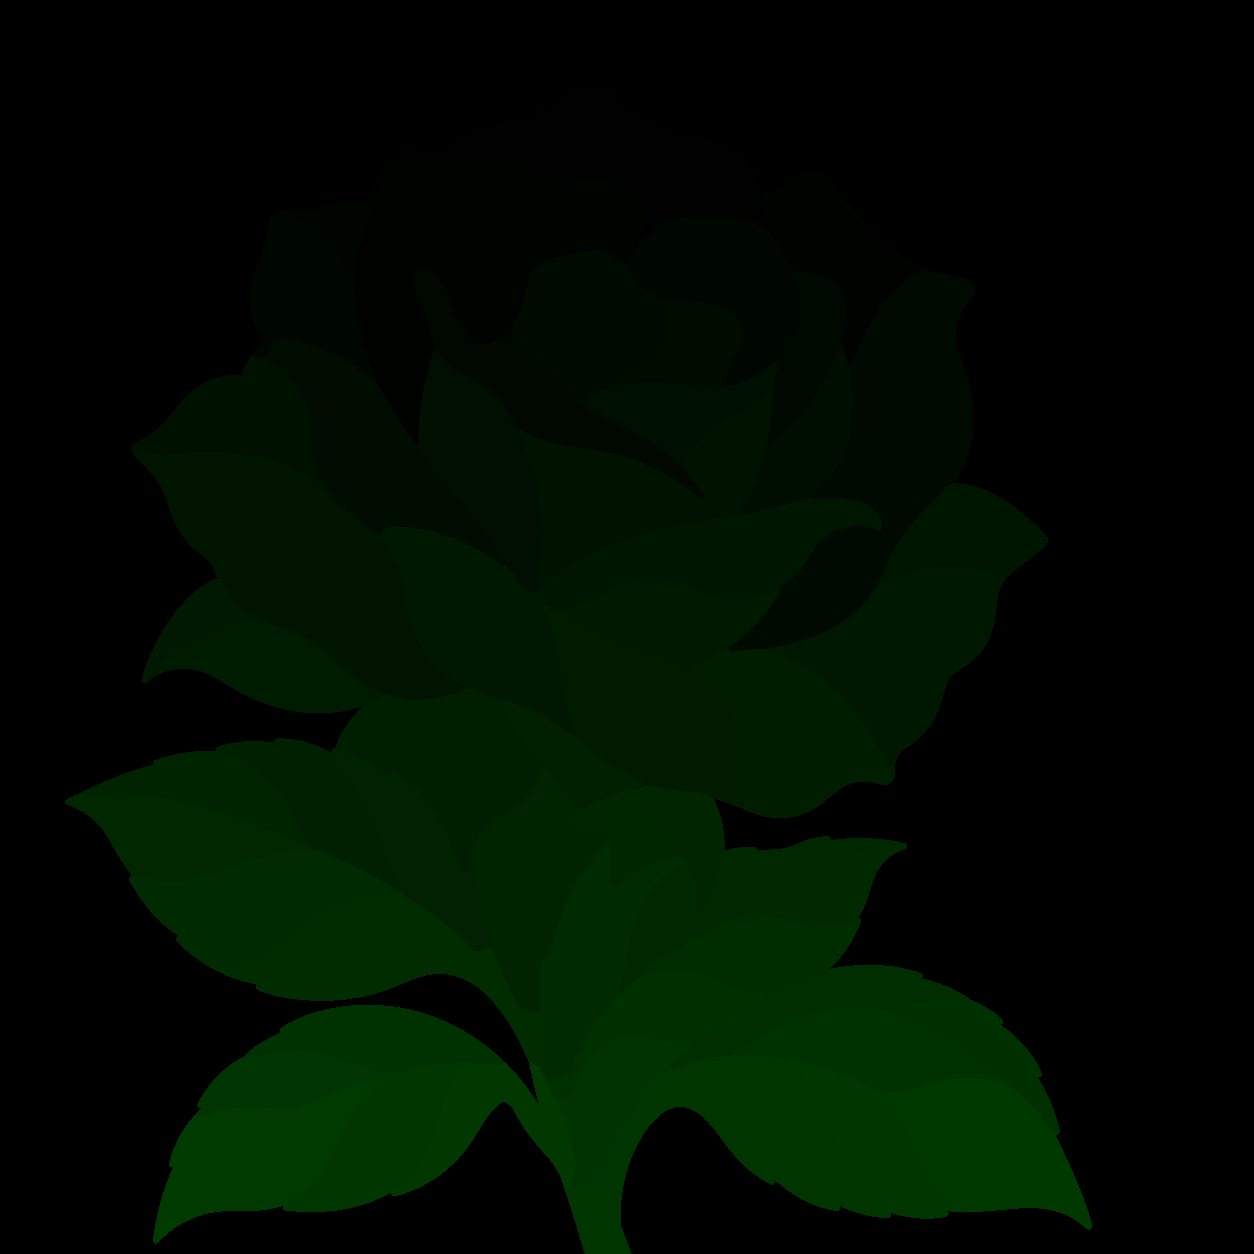
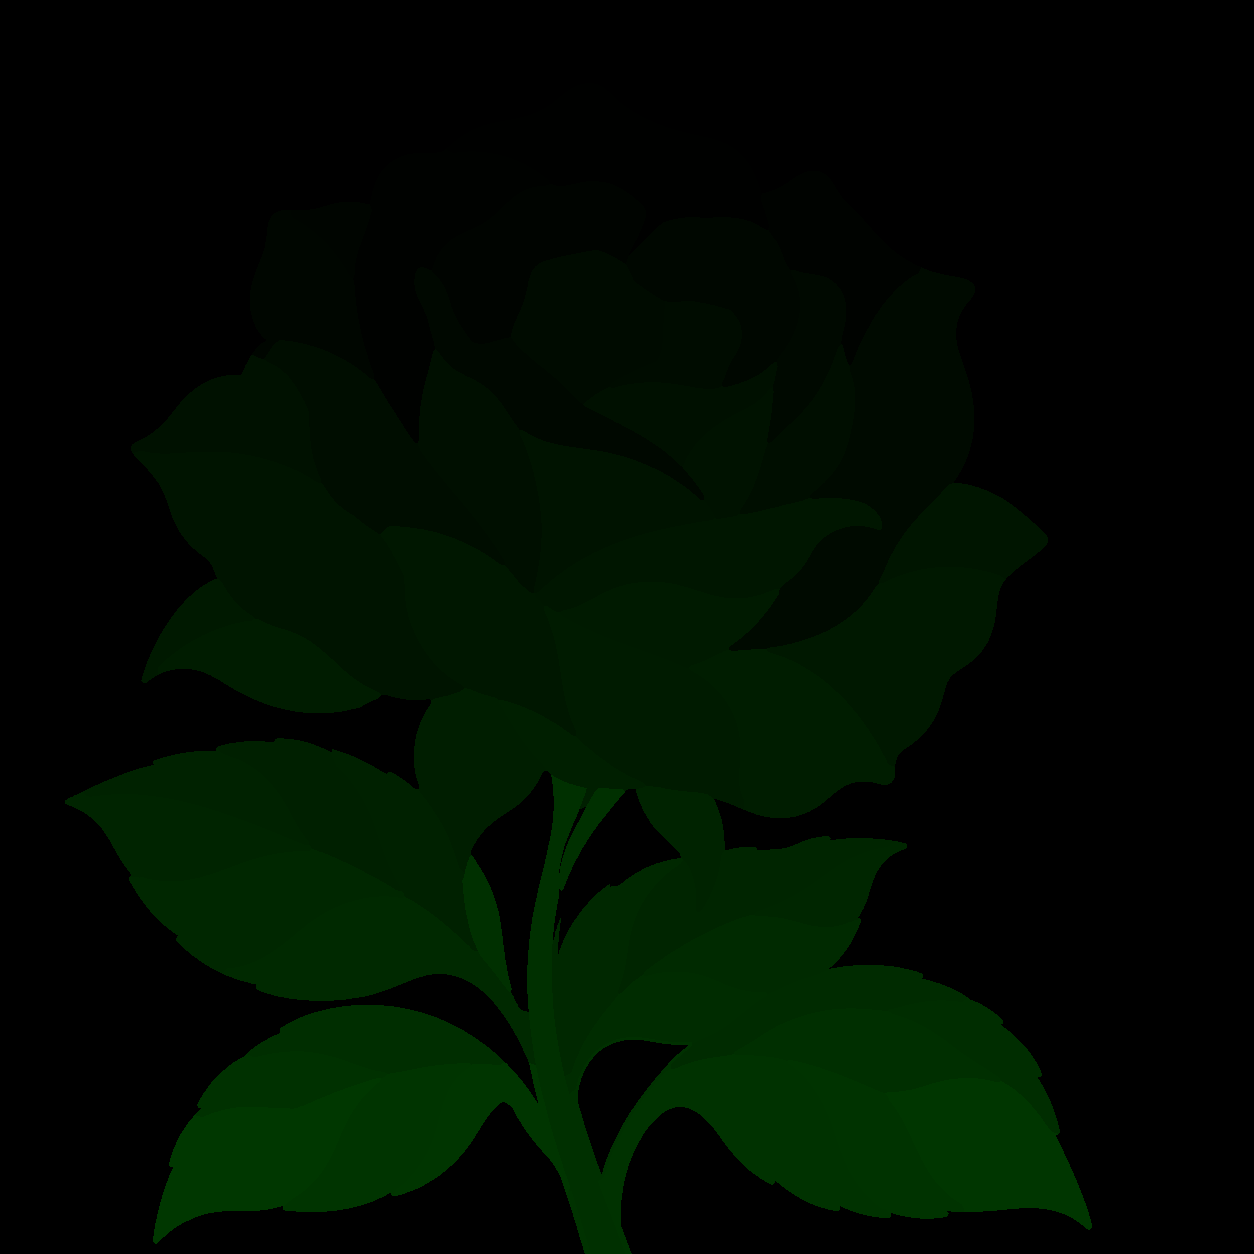
Añadir paisaje de playa y corregir la rosa

Changed region(s): [[0.3732, 0.622, 0.5598, 0.8086], [0.4354, 0.8086, 0.5598, 0.933], [0.2488, 0.5598, 0.3421, 0.622]]

diff --git a/src/main.tsx b/src/main.tsx
@@ -5,13 +5,15 @@ import './style.css';
 import SunflowerCanvas from './SunflowerCanvas';
 import sunflowerRegions from './sunflower-regions.json';
 import roseRegions from './rose-solo-regions.json';
+import beachRegions from './beach-regions.json';
 
 const sunflowerColors = ['#eab744','#f3ce68','#94623c','#79a761','#a8d5dc','#e5edf0','#a6bc78','#557f50','#8fae75','#c5cf91'];
 const roseColors = ['#bf3d45','#d7585c','#e8807b','#79a761','#a8d5dc','#e5edf0','#a6bc78','#557f50','#8fae75','#c5cf91'];
-function Game({type}:{type:'sunflower'|'rose'}){
- const isSunflower=type==='sunflower';
- const regions=isSunflower?sunflowerRegions:roseRegions;
- const colors=isSunflower?sunflowerColors:roseColors;
+const beachColors = ['#add9e2','#edf4f2','#f3c95d','#72a96e','#a9bf8b','#bc8e69','#d28261','#e7d5b2','#78bfca','#b7e0dc','#efd7a6','#bdaba0'];
+function Game({type}:{type:'sunflower'|'rose'|'beach'}){
+ const isSunflower=type==='sunflower'; const isBeach=type==='beach';
+ const regions=isSunflower?sunflowerRegions:isBeach?beachRegions:roseRegions;
+ const colors=isSunflower?sunflowerColors:isBeach?beachColors:roseColors;
  const [selected,setSelected]=useState<number | null>(1);
  const [game,setGame]=useState<{painted: Painted; history: Painted[]; celebration: number | null}>({painted:{},history:[],celebration:null});
  const {painted,history,celebration}=game;
@@ -26,11 +28,11 @@ function Game({type}:{type:'sunflower'|'rose'}){
   });
  }
  function undo(){setGame(current=>{const previous=undoStroke(current.history); return previous ? {...previous,celebration:null} : current})}
- return <><header><div className="brand">pausa<span>.</span></div><div className="tag">Un pequeño espacio para crear</div></header><main><div className="intro"><div><h1>Un momento de color</h1><p>Elige un color y descubre la ilustración, pieza por pieza.</p></div><div className="counter">{Object.keys(painted).length} de {regions.length} piezas coloreadas</div></div><div className="workspace"><section className="canvas" aria-label="Ilustración para colorear"><SunflowerCanvas painted={painted} colors={colors} celebration={celebration} onPaint={paint} regions={regions} artSrc={isSunflower?"girasol-simplificado.png":"rosa-sin-fondo.png"} mapSrc={isSunflower?"girasol-regiones.png":"rosa-sin-fondo-regiones.png"} name={isSunflower?"Girasol":"Rosa"} isSunflower={isSunflower}/><div className="palette" aria-label="Selector de colores">{colors.map((color,i)=>regions.some(r=>r.n===i+1)&&<button key={color} className="swatch" aria-label={`Color ${i+1}${available.includes(i+1) ? "" : ", completado"}`} disabled={!available.includes(i+1)} aria-pressed={activeColor===i+1} onClick={()=>setSelected(i+1)}><span style={{background:color}}>{i+1}</span></button>)}<button className="tool" aria-label="Deshacer última acción" title="Deshacer" disabled={!history.length} onClick={undo}>↶</button><button className="tool" aria-label="Borrador" title="Borrador" aria-pressed={activeColor===null} onClick={()=>setSelected(null)}><svg viewBox="0 0 24 24" aria-hidden="true"><path d="m4 14 8-8a2 2 0 0 1 3 0l4 4a2 2 0 0 1 0 3l-6 6H8l-4-4a1 1 0 0 1 0-1Zm4 5h12M9 9l7 7"/></svg></button></div></section><aside className="side"><h2>Tu paleta</h2><p>Selecciona un color y toca cualquier pieza para pintarla.</p><div className="hint"><strong>Cómo jugar</strong>Completa las piezas de cada número para bloquear su color. Si te equivocas, usa el borrador o deshaz el último cambio.</div><div className="message" aria-live="polite">{available.length===0?'¡Terminaste! Completaste todos los colores.':celebration!==null?`¡Completaste el color ${celebration}!`:''}</div><div className="bottom"><div className="progress-label"><span>Tu progreso</span><span>{percent}%</span></div><div className="progress"><span style={{width:`${percent}%`}}/></div><button className="reset" onClick={()=>{setGame({painted:{},history:[],celebration:null});setSelected(1)}}>Empezar de nuevo</button></div></aside></div><p className="foot">Una pieza a la vez. No hay prisa.</p></main></>;
+ return <><header><div className="brand">pausa<span>.</span></div><div className="tag">Un pequeño espacio para crear</div></header><main><div className="intro"><div><h1>Un momento de color</h1><p>Elige un color y descubre la ilustración, pieza por pieza.</p></div><div className="counter">{Object.keys(painted).length} de {regions.length} piezas coloreadas</div></div><div className="workspace"><section className="canvas" aria-label="Ilustración para colorear"><SunflowerCanvas painted={painted} colors={colors} celebration={celebration} onPaint={paint} regions={regions} artSrc={isSunflower?"girasol-simplificado.png":isBeach?"playa.png":"rosa-sin-fondo.png"} mapSrc={isSunflower?"girasol-regiones.png":isBeach?"playa-regiones.png":"rosa-sin-fondo-regiones.png"} name={isSunflower?"Girasol":isBeach?"Casa en la playa":"Rosa"} isSunflower={isSunflower}/><div className="palette" aria-label="Selector de colores">{colors.map((color,i)=>regions.some(r=>r.n===i+1)&&<button key={color} className="swatch" aria-label={`Color ${i+1}${available.includes(i+1) ? "" : ", completado"}`} disabled={!available.includes(i+1)} aria-pressed={activeColor===i+1} onClick={()=>setSelected(i+1)}><span style={{background:color}}>{i+1}</span></button>)}<button className="tool" aria-label="Deshacer última acción" title="Deshacer" disabled={!history.length} onClick={undo}>↶</button><button className="tool" aria-label="Borrador" title="Borrador" aria-pressed={activeColor===null} onClick={()=>setSelected(null)}><svg viewBox="0 0 24 24" aria-hidden="true"><path d="m4 14 8-8a2 2 0 0 1 3 0l4 4a2 2 0 0 1 0 3l-6 6H8l-4-4a1 1 0 0 1 0-1Zm4 5h12M9 9l7 7"/></svg></button></div></section><aside className="side"><h2>Tu paleta</h2><p>Selecciona un color y toca cualquier pieza para pintarla.</p><div className="hint"><strong>Cómo jugar</strong>Completa las piezas de cada número para bloquear su color. Si te equivocas, usa el borrador o deshaz el último cambio.</div><div className="message" aria-live="polite">{available.length===0?'¡Terminaste! Completaste todos los colores.':celebration!==null?`¡Completaste el color ${celebration}!`:''}</div><div className="bottom"><div className="progress-label"><span>Tu progreso</span><span>{percent}%</span></div><div className="progress"><span style={{width:`${percent}%`}}/></div><button className="reset" onClick={()=>{setGame({painted:{},history:[],celebration:null});setSelected(1)}}>Empezar de nuevo</button></div></aside></div><p className="foot">Una pieza a la vez. No hay prisa.</p></main></>;
 }
 function App(){
- const [drawing,setDrawing]=useState<'sunflower'|'rose'>('sunflower');
- return <><div className="drawing-menu"><label htmlFor="drawing">Ilustración</label><select id="drawing" value={drawing} onChange={e=>setDrawing(e.target.value as 'sunflower'|'rose')}><option value="sunflower">Girasol</option><option value="rose">Rosa roja</option></select></div><div hidden={drawing!=='sunflower'}><Game type="sunflower"/></div><div hidden={drawing!=='rose'}><Game type="rose"/></div></>;
+ const [drawing,setDrawing]=useState<'sunflower'|'rose'|'beach'>('sunflower');
+ return <><div className="drawing-menu"><label htmlFor="drawing">Ilustración</label><select id="drawing" value={drawing} onChange={e=>setDrawing(e.target.value as 'sunflower'|'rose'|'beach')}><option value="sunflower">Girasol</option><option value="rose">Rosa roja</option><option value="beach">Casa en la playa</option></select></div><div hidden={drawing!=='sunflower'}><Game type="sunflower"/></div><div hidden={drawing!=='rose'}><Game type="rose"/></div><div hidden={drawing!=='beach'}><Game type="beach"/></div></>;
 }
 createRoot(document.getElementById('root')!).render(<React.StrictMode><App/></React.StrictMode>);
 

diff --git a/game.test.ts b/game.test.ts
@@ -45,3 +45,9 @@ it('prepara la rosa con identificadores únicos y números dentro del lienzo', (
   expect(new Set(roseRegions.map(r=>r.id)).size).toBe(roseRegions.length);
   expect(roseRegions.every(r=>r.x >= 20 && r.x <= 1234 && r.y >= 20 && r.y <= 1234 && r.n >= 1 && r.n <= 10)).toBe(true);
 });
+
+import beachRegions from './src/beach-regions.json';
+it('prepara la playa con piezas identificables y números dentro del lienzo', () => {
+  expect(new Set(beachRegions.map(r=>r.id)).size).toBe(beachRegions.length);
+  expect(beachRegions.every(r=>r.x >= 20 && r.x <= 1234 && r.y >= 20 && r.y <= 1234 && r.n >= 1 && r.n <= 12)).toBe(true);
+});

diff --git a/README.md b/README.md
@@ -1,6 +1,6 @@
 # Mandalas
 
-Juego de colorear por números con React, TypeScript, Vite y Canvas. Incluye un girasol y una rosa roja, con ilustraciones y paletas independientes.
+Juego de colorear por números con React, TypeScript, Vite y Canvas. Incluye un girasol, una rosa roja y una casa en la playa, con ilustraciones y paletas independientes.
 
 ## Empezar
 
@@ -18,3 +18,4 @@ Abre la dirección que muestra Vite y elige una ilustración. Puedes pintar cual
 - `npm run dev`: servidor de desarrollo.
 - `npm test`: pruebas de las reglas del juego.
 - `npm run build`: comprueba TypeScript y genera la versión de producción en `dist/`.
+
